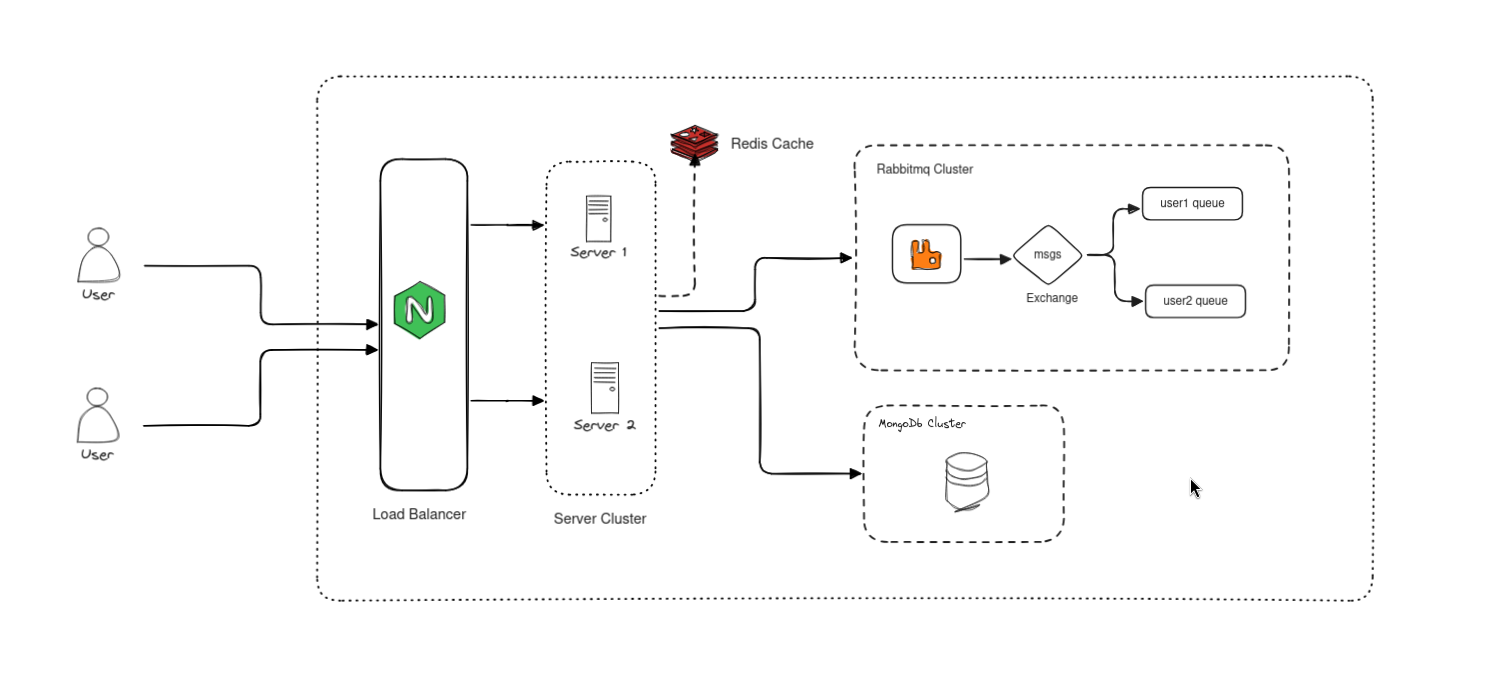
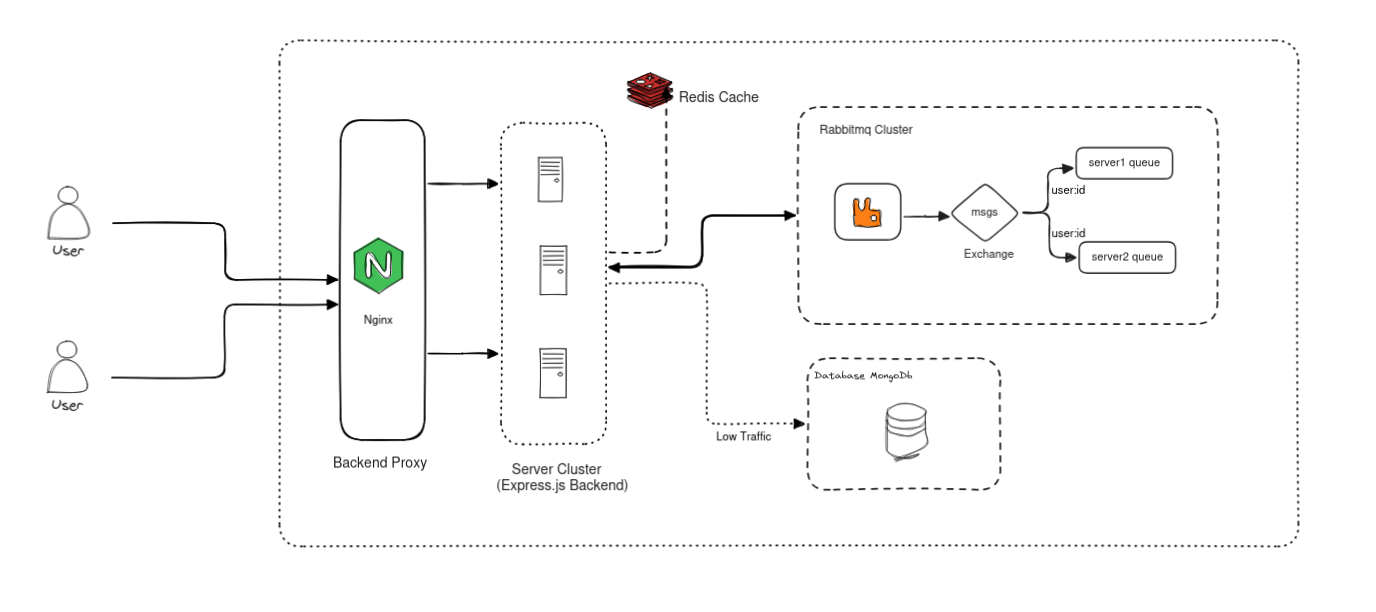
docs: update Notes and README with architecture details and RabbitMQ usage

diff --git a/README.md b/README.md
@@ -1,30 +1,24 @@
 # Distributed Chat Application | VibeTalk
 
-The backend is distributed and horiziontally scalable.
-
-This is Distributed Chat application, Users can talk in real time. i implemented this because i am curious i how distributed systems work, how they coordinate, what problems they faced and the besy way to do it, is by doing it so i started this project. My first intial target is hanlind 10K online users. I have documented my learning jouney and problems i faced in this readme itself.
-
-The backend is distributed & horizontally scalable. Technology used in backend Socket.io, redis(cache & pub/sub to maintain consistency among different servers), haproxy (for loadbalancer), mongodb(for persistence).
+The backend is distributed and horizontally scalable using RabbitMQ for message parsing.In the backend, I'm using Socket.io, Redis (cache), and RabbitMQ (message buffering). The servers don't need to maintain consistency with each other. It is all handled by RabbitMQ Queue Bindings. See [Architecture](#architecture).
 
 ## Features
 
-- Designed for 10K online users
-- Uses rabbitmq to send message.
-- Utilizes bucketing strategy to store, retrieve, and send messages faster and more efficiently
-
-## Before Starting This I Did Not Know
-
-- How RabbitMQ works
-- AMQP Protocol
-- How different distributed systems coordinate.
-- Different Schema design patterns like bucket, tree, approximation, and attribute
-- MongoDB ObjectId contains a timestamp, making them roughly sortable based on creation time, which is suitable for this case.
-
-                    !! Now I know all of these! 😄
+- Supports one-to-one communication and group chats with full data persistence.
+- Uses RabbitMq for message buffering and user sessions tracking.
+- Utilizes bucketing strategy to store, retrieve, and send messages faster and more efficiently.
+- No complex setup to track user sessions.
+- Server don't need to maintain consistency with each other.
 
 ## Architecture
 
 ![Architecture Diagram](images/image.png)
+
+- Every Server Node, Uses its own exclusive queue.
+- When a user connects to a server node, its binds the queue to the exchange by userId.
+- Exchange send the message for a user to every queue binded by its userId.
+- Server then sends the message to the user using websocket.
+- When a node is down, all the queues and bindings are automatically removed, saving resources and all the users are directed to other active nodes by the load balancer.
 
 ## Problems I Faced
 
@@ -42,6 +36,16 @@ Here is the flow of a message from sender to reciever.
 
 3. **Time synchronization for bucketing**:
     - **Problem**: For bucketing to work properly, servers need to sync time.
+
+## Before Starting This I Did Not Know
+
+- How RabbitMQ works
+- AMQP Protocol
+- How different distributed systems coordinate.
+- Different Schema design patterns like bucket, outliers and approximation.
+- MongoDB ObjectId contains a timestamp, making them roughly sortable based on creation time, which is suitable for this case.
+
+                        !! Now I know all of these! 😄
 
 ## Journey - Timeline
 
@@ -79,7 +83,7 @@ Used RabbitMQ for message delivery and Redis for "Server to User" map [**Failed 
 **Jan 9**
 
 Created a queue for each server and bound it to exchange based on userID
-  [**Green Go** - Only problem is having so many bindings, solved this by creating multiple exchanges and partitioning users to them by a simple hash function.]
+[**Green Go** - Only problem is having so many bindings, solved this by creating multiple exchanges and partitioning users to them by a simple hash function.]
 
 **Jan 11**  
 Configured Nginx and WebSockets connection to Nginx, provided server unique ID to make them identifiable.

diff --git a/Notes.md b/Notes.md
@@ -11,10 +11,12 @@
 ## Resume
 
 - Can simultaneously handle 10K online users. Benchmarks are available on GitHub.
+- Using nginx as Load Balancer, configured for websockets connection and SSL Termination.
 - Uses Prometheus and Grafana for real-time monitoring of systems.
 - Deployed on AWS.
 - Used bucketing strategy to store, retrieve, and send messages faster and more efficiently.
 - Configured Nginx as a load balancer to handle WebSockets connections.
+
 
 ## Features
 
@@ -26,6 +28,7 @@
 - To configure long polling connection, set timeout in Nginx configuration and also add polling in transport in Socket.io configuration.
 
 ### Monitoring and Logging
+
 - Prometheus: Metrics collection (pull-based, Graphite is push-based).
 - Loki: Log collection.
 - Grafana: For visualization.
@@ -119,6 +122,8 @@ Configured Nginx and WebSockets connection to Nginx, provided server unique ID t
 **Jan 12**  
 Learned about Prometheus-Grafana-Loki for metrics collection, logging, and visualization.
 
+**Jan 13**
+Got the domain for Vibetalk.
 ## Tweets
 
 **Tweet #0**  
@@ -133,7 +138,12 @@ My implementation of bucket in JS. I am using Unix epoch to reduce complexity.
 My chat app schema: users -> channels -> group.
 
 **Tweet #2**  
-After trying different approaches, now I have 5 failed approaches. 5 ways to not implement it and 1 correct way.
+After 3 failed attempts, I have a working and scalable architecture for my distributed web application. Just curious what new challenges will come ahead.
+
+After trying 3 failed approaches to use RabbitMQ for a chat app, my chat app is now finally working.  
+3 different ways to use RabbitMQ, now I have one finally working solution.
+
+I’ve simply discovered three approaches on how not to use RabbitMQ.
 
 **Tweet #3**  
 Read this, it will help you to understand how to design schema efficiently:  
@@ -151,9 +161,3 @@ Learned about HTTP long polling transport, it holds the request until a message 
 **Tweet #5**  
 Now using Prometheus, Grafana, and Loki to monitor logs.
 
-After 3 failed attempts, I have a working and scalable architecture for my distributed web application. Just curious what new challenges will come ahead.
-
-After trying 3 failed approaches to use RabbitMQ for a chat app, my chat app is now finally working.  
-3 different ways to use RabbitMQ, now I have one finally working solution.
-
-I’ve simply discovered three approaches on how not to use RabbitMQ.
